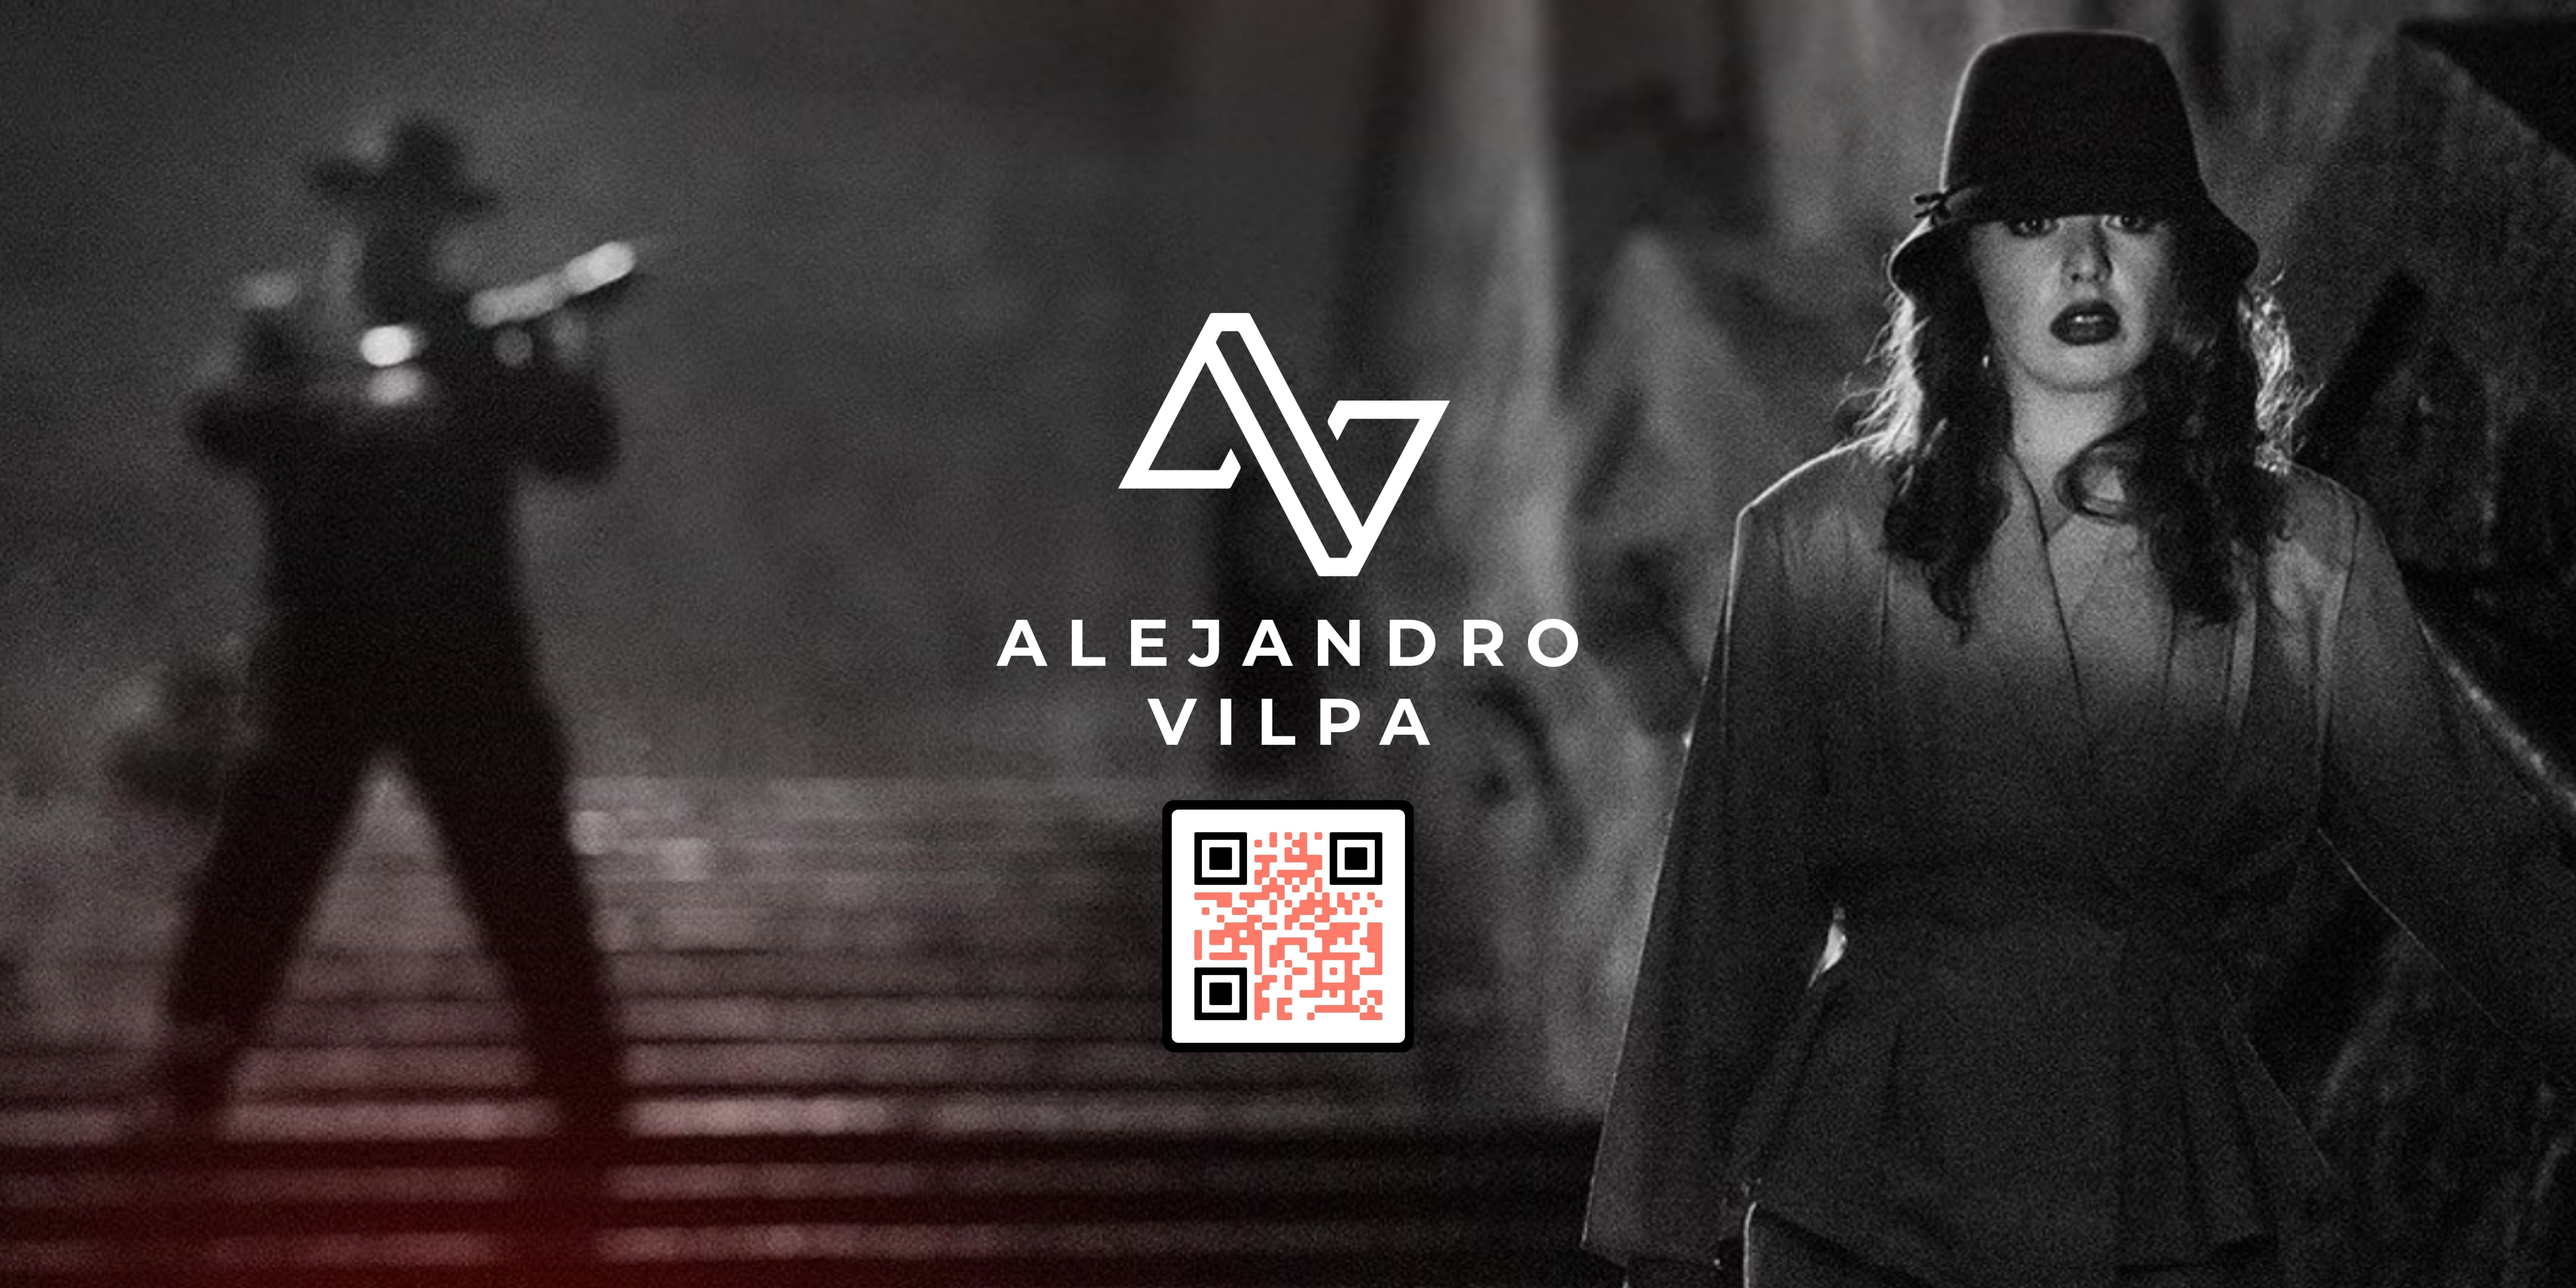
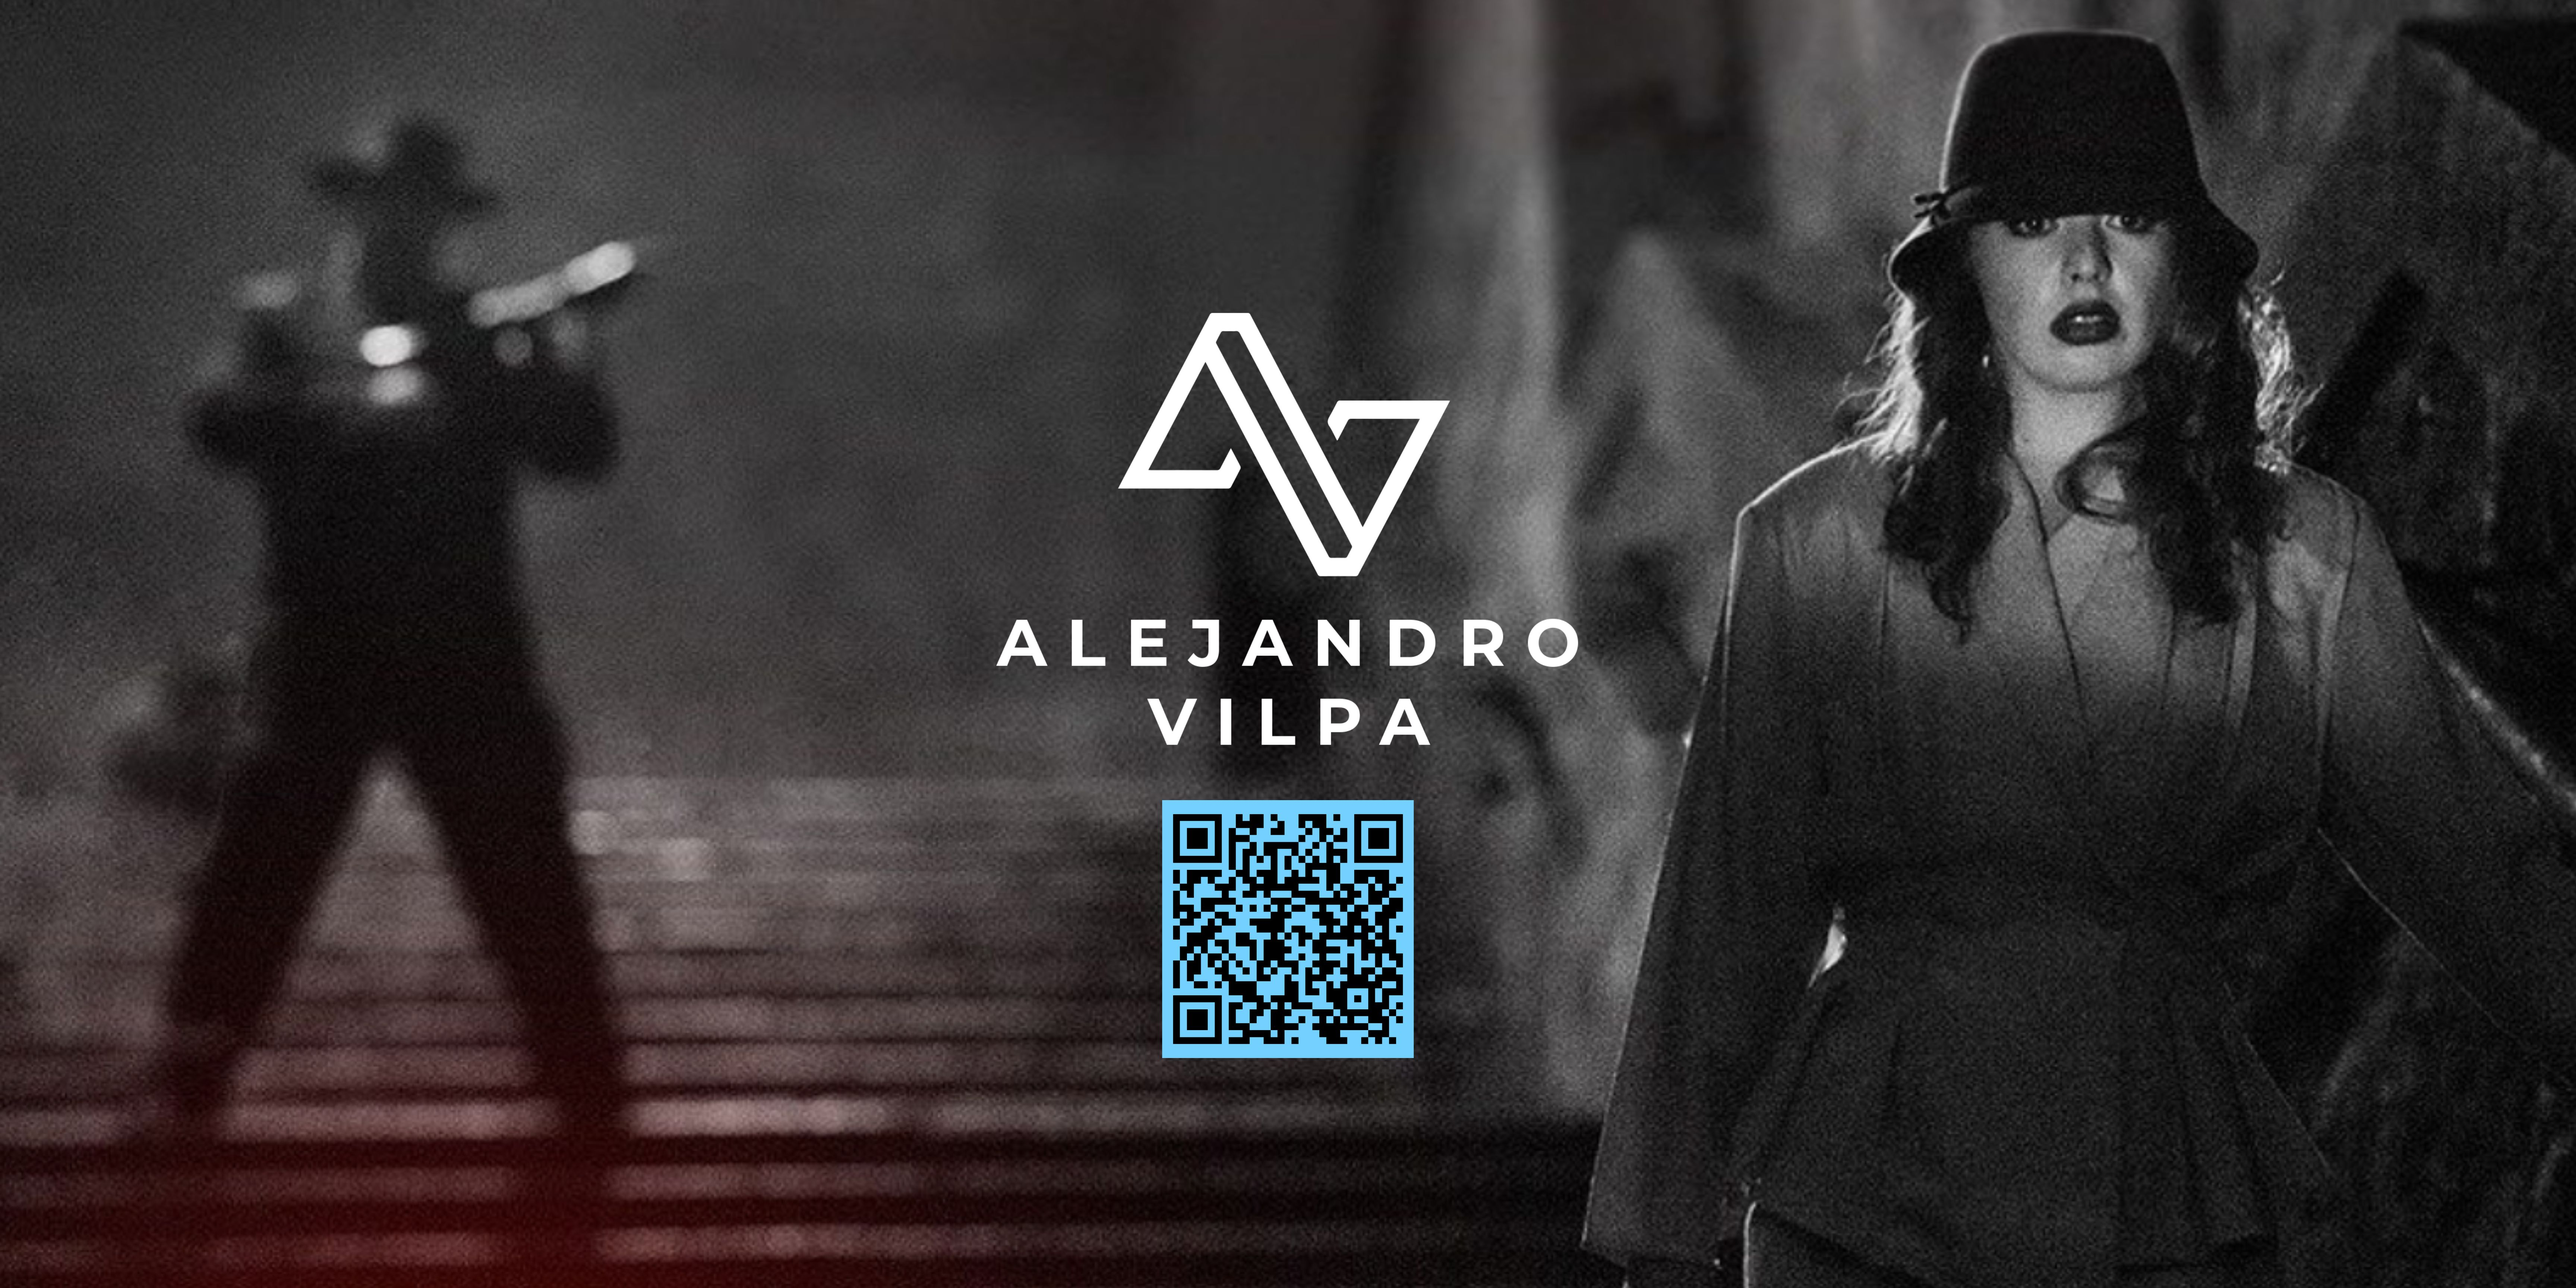
added new book and qrs

Changed region(s): [[0.4375, 0.5938, 0.5625, 0.8438]]

diff --git a/server.js b/server.js
@@ -155,6 +155,52 @@ app.post("/rebeccasmirnovenvio", function (request, response) {
         };
     })
 });
+app.post("/inocentesenvio", function (request, response) {
+    console.log(email);
+    const transporter = nodemailer.createTransport({
+        service: 'gmail',
+        secure: false,
+        port: 25,
+        auth: {
+            user: email,
+            pass: superSecretPwd
+        },
+        tls: {
+            rejectUnauthorized: false
+        }
+    });
+
+    var textBody = `FROM: ${request.body.name}; EMAIL: ${request.body.email}; MESSAGE: ${request.body.message}`;
+    var htmlBody = `<h2>Correo de contacto</h2><p>Nombre: ${request.body.name} </p> <p> Correo electrónico: <a href='mailto: ${request.body.email}'>${request.body.email}</a></p><p>País: ${request.body.country} </p><p>Código Postal: ${request.body.zipCode}</p><p>Teléfono: ${request.body.phoneNumber}</p><p>Dedicado a: ${request.body.dedica}</p><p>Dirección: ${request.body.address}</p>`;
+    var secondHtmlBody = `<h2>Gracias por adquirir tu copia de: El aliento de los inocentes</h2><p>${request.body.name} Tu copia será enviada, en breve, a la dirección de entrega que proporcionaste</p>`;
+    let customerMail = `${request.body.email}`;
+    var mail = {
+        from: '"Team: Xyncs Web Studio',
+        to: 'hebrit_626@hotmail.com',
+        subject: '¡Nuevo pedido: El aliento de los inocentes!',
+        html: htmlBody
+    };
+    var secondMail = {
+        from: 'Alejandro Vilpa',
+        to: customerMail,
+        subject: '¡Tu copia: El aliento de los inocentes!',
+        html: secondHtmlBody
+    };
+    transporter.sendMail(mail, function (err, info) {
+        if (err) {
+            return console.log(err);
+        } else {
+            console.log("message sent!");
+        };
+    });
+    transporter.sendMail(secondMail, function (err, info) {
+        if (err) {
+            return console.log(err);
+        } else {
+            console.log("message sent!");
+        };
+    })
+});
 
 //STRIPE
 app.post('/create-checkout-session', async (req, res) => {
@@ -168,6 +214,22 @@ app.post('/create-checkout-session', async (req, res) => {
         ],
         mode: 'payment',
         success_url: `${"https://www.alejandrovilpa.com"}/resumenrebeccaSmirnov`,
+        cancel_url: `${"https://www.alejandrovilpa.com"}/inicio`,
+    });
+
+    res.redirect(303, session.url);
+});
+app.post('/create-checkout-session-inocentes', async (req, res) => {
+    const session = await stripe.checkout.sessions.create({
+        line_items: [
+            {
+                // Provide the exact Price ID (for example, pr_1234) of the product you want to sell
+                price: 'price_1MQc6VGyOvmlXVnJBOMB2c8m',
+                quantity: 1,
+            },
+        ],
+        mode: 'payment',
+        success_url: `${"https://www.alejandrovilpa.com"}/resumenElAlientoDeLosInocentes`,
         cancel_url: `${"https://www.alejandrovilpa.com"}/inicio`,
     });
 
